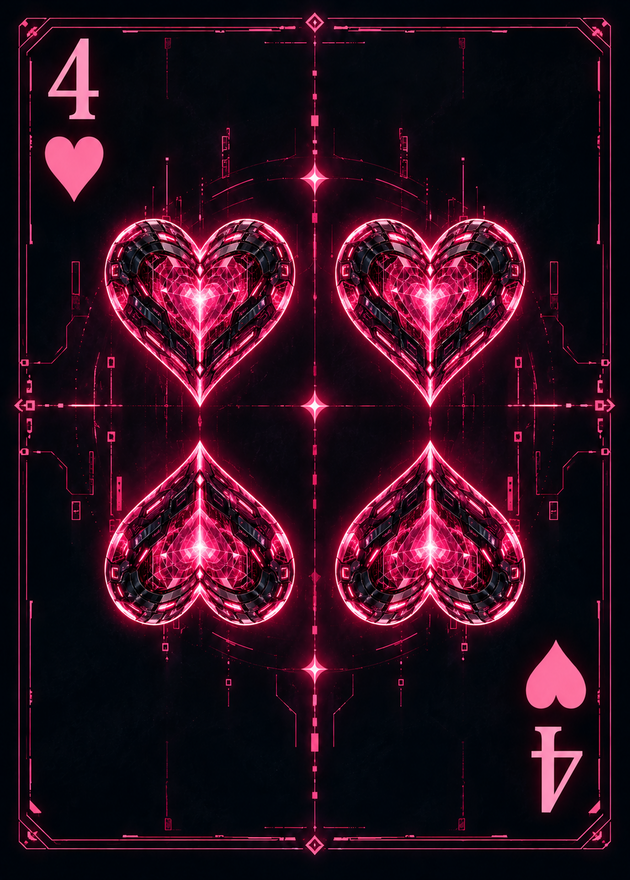
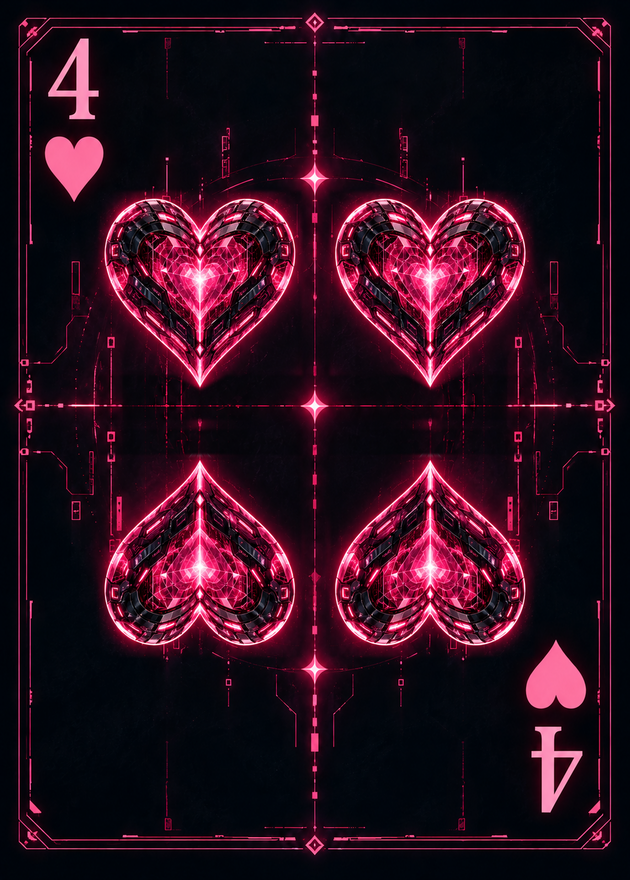
Sync Cyber Epoch heart four with latest artwork

Changed region(s): [[0.5127, 0.2148, 0.8444, 0.767], [0.1508, 0.2148, 0.4825, 0.767]]

diff --git a/README.md b/README.md
@@ -64,7 +64,7 @@ Straight Flush · Four of a Kind · Full House · Flush · Straight · Three of 
 - Canvas: fixed 1200×700 px, CSS-scaled to viewport via `transform: scale()`
 - Card rendering: SVG-cards faces use individual SVG files in `cards/`; its blue back references `svg-cards.svg`. Geometric Rhapsody uses 55 lossless WebP images in `cards/geometric-rhapsody/`, including both Jokers from version 3 of the supplied deck archive. Every decoded pixel matches its source PNG; the original 630×880 dimensions and aspect ratio are preserved.
 - Blood Moon Castle: the latest supplied 630×880 artwork is stored as 55 lossless WebP images in `cards/blood-moon-castle/`, including both Jokers from version 11 of the supplied deck archive. Every decoded pixel matches its source PNG; the original dimensions and aspect ratio are preserved.
-- Cyber Epoch: version 3 of the supplied `Cyber_Epoch_55_Cards_630x880_Final.zip` (updated 2026-10-02) is stored as 55 lossless WebP images in `cards/cyber-epoch/`, preserving every source pixel and the original 630×880 dimensions. The small and big Jokers are retained as `joker_black.webp` and `joker_red.webp` respectively.
+- Cyber Epoch: version 5 of the supplied `Cyber_Epoch_55_Cards_630x880_Final.zip` (updated 2026-10-08) is stored as 55 lossless WebP images in `cards/cyber-epoch/`, preserving every source pixel and the original 630×880 dimensions. The small and big Jokers are retained as `joker_black.webp` and `joker_red.webp` respectively.
 - Star Voyage: version 11 of the supplied `Star_Voyage_55_Cards_630x880.zip` (updated 2026-10-02) is stored as 55 lossless WebP images in `cards/star-voyage/`, including both Jokers. Every decoded pixel matches the source PNG; all cards retain their 630×880 dimensions. The game uses the 52 standard faces and back.
 - Card themes: configured in `CARD_THEMES` inside `index.html`; files follow the existing `spade_1`, `heart_jack`, etc. naming convention, with `back` for the reverse. Only the 52 standard faces and one back are used.
 - Theme backgrounds: 1200×700 WebP images in `backgrounds/`, configured with the optional `background` and `surround` properties in `CARD_THEMES`. The custom themes hide the felt-table decoration while preserving the table geometry; dark panels keep foreground text readable. See [background asset notes](backgrounds/README.md) for generation prompts.
